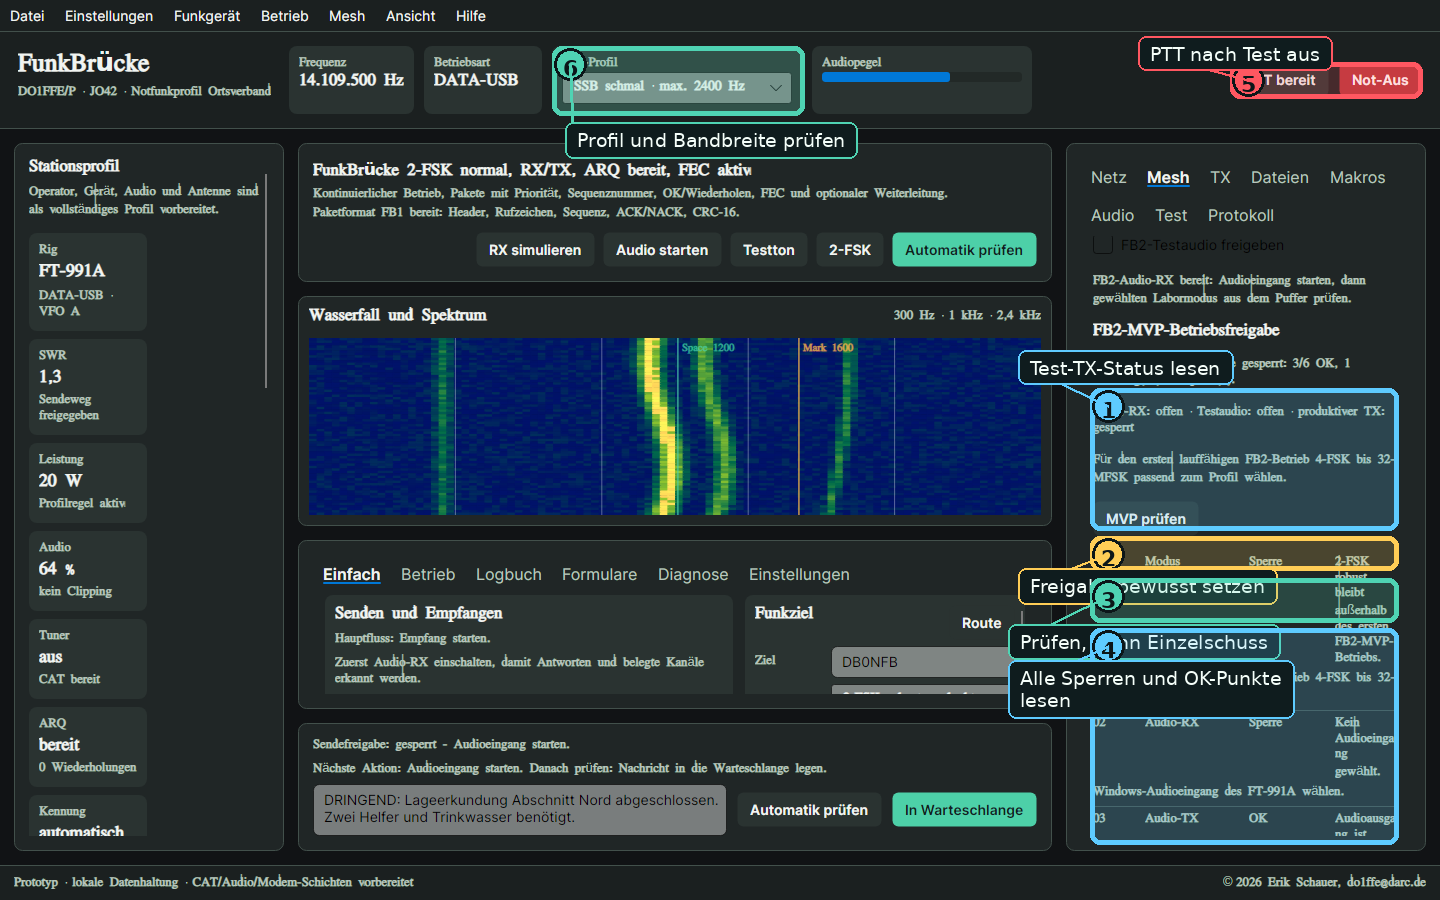
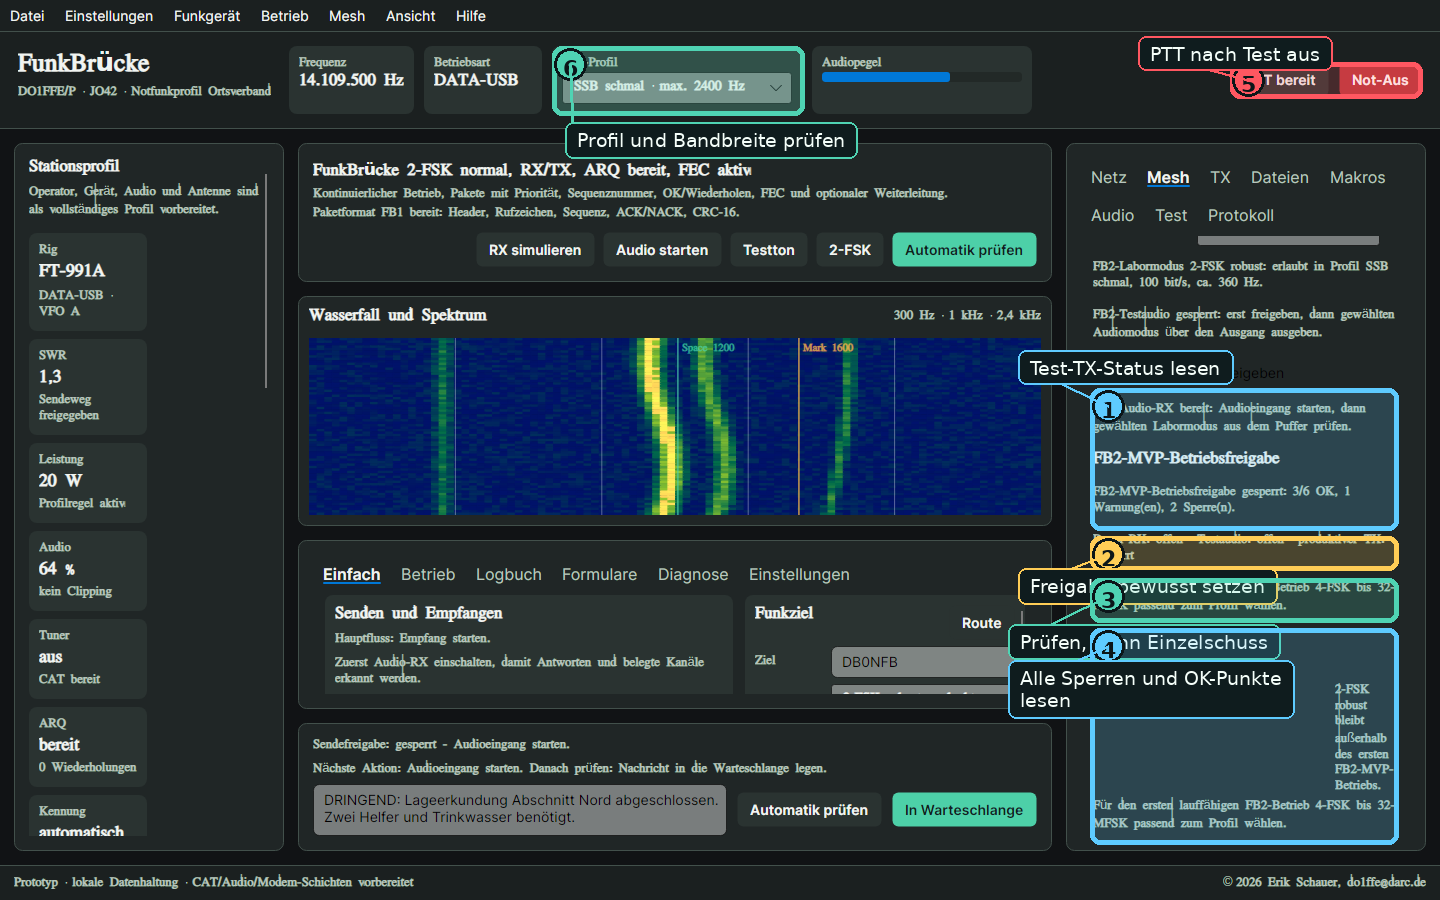
Aktualisiere FunkBruecke Webseite auf v0.9.240

Changed region(s): [[0.75, 0.2489, 0.9688, 0.9333], [0.7812, 0.7778, 0.8438, 0.8089]]

diff --git a/templates/funkbruecke.html b/templates/funkbruecke.html
@@ -52,7 +52,10 @@
       bereitet Empfang, Kanalprüfung, FB1-Horchfenster, Audioausgabe und Sendesicherheit
       vor, sendet den passenden FB2-Rahmen automatisch und ordnet die Rückmeldung als
       OK oder Wiederholen ein. Offene direkte QSOs werden auf Timeout geprüft und
-      eindeutige Wiederholungen laufen wieder über dieselbe Warteschlange.
+      eindeutige Wiederholungen laufen wieder über dieselbe Warteschlange. Wenn ein
+      Paket und ein OK technisch eindeutig zusammenpassen, schlägt die Oberfläche einen
+      FB2-Feldnachweis vor; gespeichert wird er erst nach bewusster Bestätigung, dass
+      der Versuch wirklich über Funk und beaufsichtigt lief.
     </p>
     <p>
       Für Tests kann der Ablauf lokal mit zwei Programminstanzen ohne HF geprobt werden.
@@ -62,7 +65,8 @@
       als Mesh-Kandidaten mit Route und nächstem Hop erkannt. Eine Freigabekette nennt,
       ob ein gespeicherter Feldnachweis für genau diese Nachbarstation, Bedienfreigabe,
       Kanalprüfung, FB1-Horchfenster, Sendesicherheit oder freie TX-Lage noch fehlen;
-      die echte automatische FB2-Mesh-Weiterleitung bleibt im Prototyp noch gesperrt.
+      die Feldnachweis-Lage ist zusätzlich im Mesh-Bereich sichtbar. Die echte
+      automatische FB2-Mesh-Weiterleitung bleibt im Prototyp noch gesperrt.
     </p>
     <p>
       Das Mesh-Prinzip ist der Kern für den späteren Ausbau: Jede Station soll nicht nur
@@ -84,7 +88,7 @@
       <div><dt>Funkgerät</dt><dd>Yaesu FT-991A</dd></div>
       <div><dt>Betriebsart</dt><dd>FB2 senden/empfangen mit Modusleiter bis 32-MFSK, Planung bis OFDM</dd></div>
       <div><dt>Funkweg</dt><dd>SSB schmalbandig, FM für breitere Modi</dd></div>
-      <div><dt>Testbetrieb</dt><dd>Einfachbetrieb mit Warteschlange, automatischem Senden und Empfangen, OK/Wiederholen, Timeout-Wiederholung, FB2-RX bis 32-MFSK, Zwei-Instanzen-Test, FT-991A-Praxistest, Feldnachweis-Speicherung und Mesh-Freigabekette ohne automatische Weiterleitung</dd></div>
+      <div><dt>Testbetrieb</dt><dd>Einfachbetrieb mit Warteschlange, automatischem Senden und Empfangen, OK/Wiederholen, Timeout-Wiederholung, FB2-RX bis 32-MFSK, Zwei-Instanzen-Test, FT-991A-Praxistest, Feldnachweisvorschlag, Feldnachweis-Speicherung und Mesh-Freigabekette ohne automatische Weiterleitung</dd></div>
     </dl>
   </aside>
 </section>
@@ -202,7 +206,7 @@
       Einfachbetrieb, Hauptfluss, Zielrufzeichen, Rollenwahl, Sendefeld, Warteschlange,
       Modusplan, Vor-TX-Prüfung, Antwort, Rückweg, Empfangen, Empfang einsortieren,
       FB2 senden/empfangen, Gespräch, Zwei-Fenster-Test, Wasserfall, Spektrum,
-      CAT-/Audio-Bereiche, Mesh-Ansichten, FB2-Planung und Protokollfenster. Die Menüs
+      CAT-/Audio-Bereiche, Mesh-Ansichten, Feldnachweisblock, FB2-Planung und Protokollfenster. Die Menüs
       oben bündeln Einstellungen, Hilfe, Versionsinformationen und technische Werkzeuge,
       damit der Hauptbildschirm nicht mit Nebenfunktionen überladen wird.
     </p>
@@ -219,7 +223,9 @@
       ob eine Wiederholung fällig ist und ob ein fremdes Ziel später über das Mesh
       erreichbar wäre. Für fremde Ziele wird zusätzlich sichtbar, ob ein echter,
       testleiterbestätigter FB2-Feldnachweis für den nächsten Hop vorhanden ist und welche
-      Mesh-Freigabe noch fehlt. Breite Feldfreigabe und automatische
+      Mesh-Freigabe noch fehlt. Der normale FB2-Gesprächsbereich kann einen solchen
+      Nachweis nach passendem Paket und OK vorschlagen, laden und bewusst speichern.
+      Breite Feldfreigabe und automatische
       Mesh-Nutzdatenweiterleitung bleiben separate Schritte, bis der Grundbetrieb stabil
       nachgewiesen ist.
     </p>
@@ -249,7 +255,7 @@
       Rückweg, Empfangen, Empfang einsortieren, FB2 senden/empfangen, Gespräch,
       Moduswahl, Wiederholungslimit, RX-Härtung, Gesprächsabschluss, Auto-RX-Status,
       FB1-Live-RX, FB2-Auto-RX, Sendeautomatik-Praxisstatus, Zwei-Stationen-Livepraxis, Feldtestprotokoll, Zwei-Fenster-Rundlauf,
-      direkte FB2-Gesprächsaktionen, Feldnachweis-Speicherung, Mesh-Freigabekette, Technik und Diagnose,
+      direkte FB2-Gesprächsaktionen, Feldnachweisvorschlag, Feldnachweis-Speicherung, Mesh-Freigabekette, Technik und Diagnose,
       Vor-TX-Prüfung und Dokumentation. Die wichtigsten
       Einstellungen liegen oben in der Menüzeile; im Einfachbetrieb führen Hauptleiste,
       Automatik prüfen und die FB2-Karte durch Einreihen, Prüfung, Senden, Empfangen
@@ -269,11 +275,11 @@
   <div class="funkbruecke-screenshot-grid">
     <figure class="reveal">
       <img src="{{ url_for('static', filename='assets/funkbruecke-uebersicht.png') }}" alt="Markierte Übersicht der FunkBrücke-Oberfläche">
-      <figcaption>Übersicht mit Menüzeile, Profil, Wasserfall, Hauptfluss, Sendefreigabe, Warteschlange, gehärteter Sendeautomatik, Gesprächszustand, FB1-Live-RX, FB2-Auto-RX, Live-RX-Praxiskette, Feldnachweis, Mesh-Freigabekette, Zwei-Stationen-Livepraxis, Zwei-Fenster-Rundlauf, Schrittliste und Abnahme.</figcaption>
+      <figcaption>Übersicht mit Menüzeile, Profil, Wasserfall, Hauptfluss, Sendefreigabe, Warteschlange, gehärteter Sendeautomatik, Gesprächszustand, FB1-Live-RX, FB2-Auto-RX, Live-RX-Praxiskette, Feldnachweisvorschlag, Feldnachweis-Speicherung, Mesh-Freigabekette, Zwei-Stationen-Livepraxis, Zwei-Fenster-Rundlauf, Schrittliste und Abnahme.</figcaption>
     </figure>
     <figure class="reveal">
       <img src="{{ url_for('static', filename='assets/funkbruecke-fb2-test-tx.png') }}" alt="Markierter Bereich für FB2 senden und empfangen">
-      <figcaption>FB2 senden/empfangen: RX starten, Nachricht einreihen, Sendeautomatik prüfen, OK/Wiederholen zuordnen und Probleme prüfen; Technik und Diagnose bleiben für Nachweise und Fehlersuche erreichbar.</figcaption>
+      <figcaption>FB2 senden/empfangen: RX starten, Nachricht einreihen, Sendeautomatik prüfen, OK/Wiederholen zuordnen, Feldnachweisvorschlag speichern oder laden und Probleme prüfen; Technik und Diagnose bleiben für Nachweise und Fehlersuche erreichbar.</figcaption>
     </figure>
   </div>
 </section>
@@ -351,7 +357,8 @@
       Zwei-Fenster-Rundlauf mit Abnahme und Schrittliste, den direkt bedienbaren
       FB2-Gesprächsblock mit nachgeordneter Technikdiagnose, den erweiterten
       FT-991A-Praxistest mit Fokusblock und eine geführte Zwei-Stationen-Versuchsvorbereitung
-      mit Pflichtnachweisen. Ein gespeicherter FB2-Feldnachweis zählt für Mesh erst, wenn
+      mit Pflichtnachweisen. Der normale FB2-Bereich kann nach einem passenden Paket-/OK-Paar
+      einen Feldnachweisvorschlag anzeigen. Ein gespeicherter FB2-Feldnachweis zählt für Mesh erst, wenn
       er ein echtes, abgeschlossenes und testleiterbestätigtes QSO zur nächsten
       Nachbarstation belegt. Für fremde FB2-Ziele zeigt die Mesh-Freigabekette zusätzlich,
       ob Feldnachweis, Bedienfreigabe, Kanalprüfung, FB1-Horchfenster, Sendesicherheit
@@ -373,7 +380,7 @@
       <li>Der Zwei-Fenster-Rundlauf meldet laufend, bestanden oder fehlgeschlagen.</li>
       <li>Der FT-991A-Praxistest führt bis FB2-Trockenauftrag, Fokusblock und Protokoll.</li>
       <li>Der Feldversuch zeigt sieben Pflichtnachweise vor dem ersten echten Zwei-Stationen-Test.</li>
-      <li>FB2-Feldnachweise können lokal gespeichert werden und zählen für Mesh nur nach echtem, bestätigtem QSO mit dem nächsten Hop.</li>
+      <li>FB2-Feldnachweise werden nach passendem Paket und OK vorgeschlagen, können lokal gespeichert werden und zählen für Mesh nur nach echtem, bestätigtem QSO mit dem nächsten Hop.</li>
       <li>FB2 senden/empfangen überspringt eigene, alte und falsch adressierte Austauschdateien.</li>
       <li>Ein FB2-Test-TX startet nur als genau ein bewusst freigegebener Einzelschuss.</li>
       <li>FB2-/FB2L-Treffer werden für Mesh-Beobachtung angedockt, aber nicht automatisch weitergeleitet.</li>

diff --git a/tests/test_routen.py b/tests/test_routen.py
@@ -199,7 +199,7 @@ def test_funkbruecke_seite_zeigt_aktuellen_prototypstand():
 
     assert antwort.status_code == 200
     assert "Derzeit noch ein Prototyp" in html
-    assert "v0.9.239" in html
+    assert "v0.9.240" in html
     assert "FB1-Live-RX" in html
     assert "FB2-Auto-RX" in html
     assert "Text eingeben, Zielrufzeichen wählen" in html
@@ -210,6 +210,8 @@ def test_funkbruecke_seite_zeigt_aktuellen_prototypstand():
     assert "Timeout-Wiederholung" in html
     assert "Mesh-Freigabekette" in html
     assert "Feldnachweis" in html
+    assert "Feldnachweisvorschlag" in html
+    assert "Nachweis nach passendem Paket und OK vorschlagen" in html
     assert "gespeicherter Feldnachweis" in html
     assert "testleiterbestätigter FB2-Feldnachweis" in html
     assert "Bedienfreigabe" in html